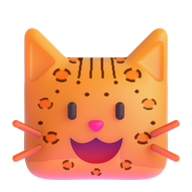
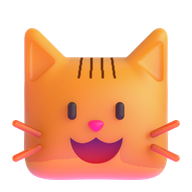
진돗개는 흰색(귀 끝도 흰색)만, 황구 빼고 여우 복귀, 뱅갈 얼굴 점 빼고 이마 줄무늬만

diff --git a/index.html b/index.html
@@ -389,11 +389,10 @@ function distToGoal(pos, hist) { return simulate(pos, hist, 40).path.length; }
 const YUT_NAME = { "-1": "빽도", 1: "도", 2: "개", 3: "걸", 4: "윷", 5: "모" };
 const TEAM_COLORS = ["#F0675F", "#5B8DEF", "#4DB37E", "#F2B630"];
 // 말 그림: Microsoft Fluent Emoji 3D (MIT 라이선스), animals/ 폴더
-// 진돗개·백구는 여우 얼굴을, 뱅갈 고양이는 고양이 얼굴을 다시 칠한 것 (scratchpad breeds.py)
+// 진돗개(흰색)는 여우 얼굴을, 뱅갈 고양이(이마 줄무늬)는 고양이 얼굴을 다시 칠한 것 (scratchpad breeds.py)
 const ANIMALS = [
   ["tiger", "호랑이"], ["rabbit", "토끼"], ["jindo", "진돗개"], ["bengal", "고양이"],
-  ["baekgu", "백구"],
-  ["bear", "곰"], ["panda", "판다"], ["pig", "돼지"],
+  ["bear", "곰"], ["panda", "판다"], ["fox", "여우"], ["pig", "돼지"],
   ["chick", "병아리"], ["frog", "개구리"], ["cow", "젖소"], ["koala", "코알라"],
   ["hamster", "햄스터"], ["mouse", "생쥐"], ["penguin", "펭귄"], ["lion", "사자"],
 ];
@@ -404,7 +403,7 @@ const darken = hex => { const n = parseInt(hex.slice(1), 16), f = v => Math.roun
 function fixAnimals(teams) { teams.forEach((t, i) => {
   if (t.animal === "dog" || t.emoji === "🐶") { t.animal = "jindo"; if (t.name === "강아지") t.name = "진돗개"; }
   if (t.animal === "cat") t.animal = "bengal";
-  if (t.animal === "fox") t.animal = "jindo"; if (!ANIMAL_NAME[t.animal]) t.animal = OLD_EMOJI[t.emoji] || ANIMALS[i][0]; delete t.emoji; }); }
+  if (t.animal === "baekgu") t.animal = "jindo"; if (!ANIMAL_NAME[t.animal]) t.animal = OLD_EMOJI[t.emoji] || ANIMALS[i][0]; delete t.emoji; }); }
 const DEFAULT_NAMES = ["호랑이", "토끼", "진돗개", "고양이"];
 
 /* ════════ 저장 ════════ */

diff --git a/sw.js b/sw.js
@@ -1,6 +1,6 @@
 // 윷놀이 한판 서비스 워커: 앱 파일을 저장해 두어 인터넷이 약한 모임 장소에서도 열리게 한다
-const VERSION = "yut-v3";
-const CORE = ["./", "index.html", "manifest.webmanifest", ...["tiger","rabbit","jindo","bengal","baekgu","bear","panda","pig","chick","frog","cow","koala","hamster","mouse","penguin","lion"].map(k => `animals/${k}.png`), "icons/icon-192-v1.png", "icons/icon-512-v1.png", "icons/apple-touch-icon-v1.png"];
+const VERSION = "yut-v4";
+const CORE = ["./", "index.html", "manifest.webmanifest", ...["tiger","rabbit","jindo","bengal","bear","panda","fox","pig","chick","frog","cow","koala","hamster","mouse","penguin","lion"].map(k => `animals/${k}.png`), "icons/icon-192-v1.png", "icons/icon-512-v1.png", "icons/apple-touch-icon-v1.png"];
 
 self.addEventListener("install", e => {
   e.waitUntil(caches.open(VERSION).then(c => c.addAll(CORE.map(u => new Request(u, { cache: "reload" })))).then(() => self.skipWaiting()));
